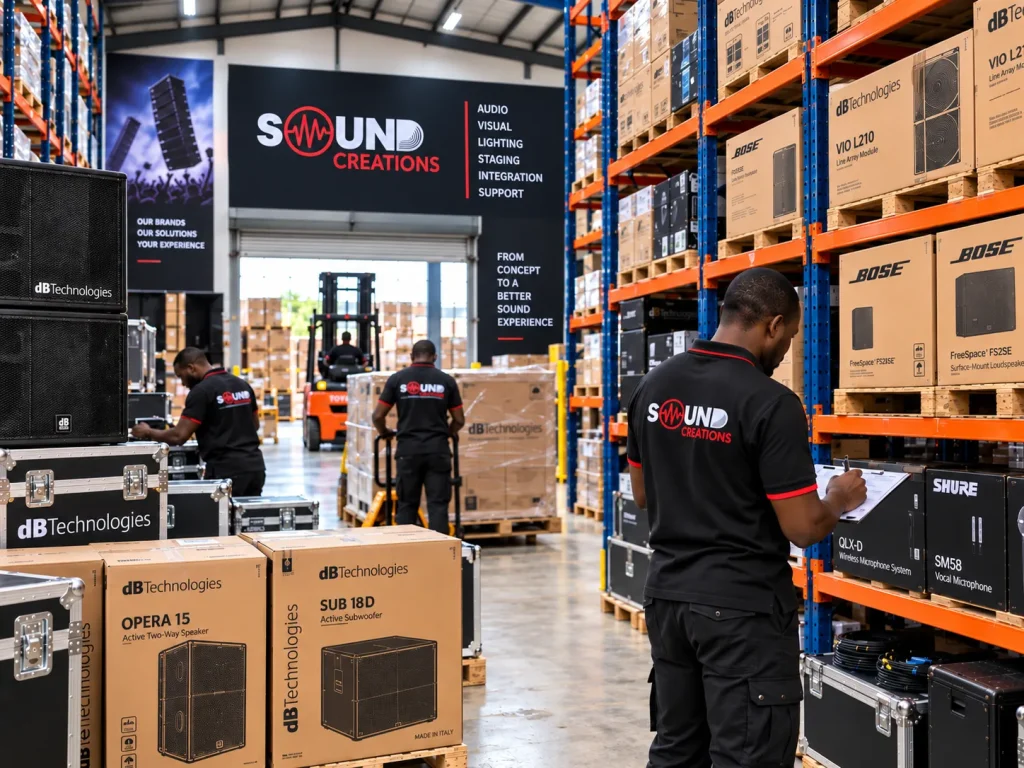
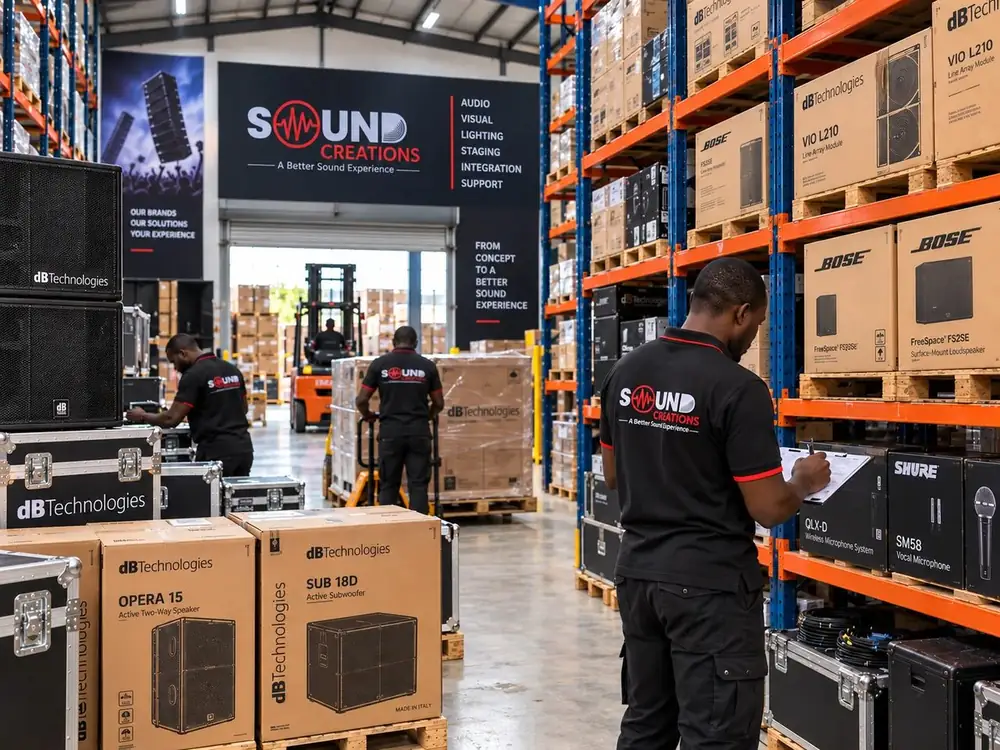
Homepage: ship right-sized WebP hero, service and CTA images
Sources were 2-3x larger in pixel dimensions than their display slots,
so the first uncached load pulled ~1 MB of imagery before the optimizer
had anything cached.

- Add WebP encodes sized to their actual slots: hero-poster (1280w),
  cta-building (1400w), and the four What We Do service cards (1000w for
  a 600x450 slot)
- Point the homepage defaults and the LCP preload hint at the WebP files
- Homepage image payload drops ~1040 KB -> ~494 KB (52% smaller)
- Bump theme version to 0.8.27 for cache busting

JPEG originals are kept in the repo as masters.

diff --git a/soundcreations/style.css b/soundcreations/style.css
@@ -4,7 +4,7 @@ Theme URI: https://soundcreationsltd.com/
 Author: Sound Creations Ltd
 Author URI: https://soundcreationsltd.com/
 Description: Premium B2B audio, acoustics, distribution and integration theme for Sound Creations Ltd. Dark-first, editorial and engineering-led. Built custom - no Elementor, no WooCommerce. Starter scaffold (v0.1.0).
-Version: 0.8.26
+Version: 0.8.27
 Requires at least: 6.4
 Tested up to: 6.6
 Requires PHP: 8.0

diff --git a/soundcreations/front-page.php b/soundcreations/front-page.php
@@ -14,7 +14,7 @@ if ( defined( 'ABSPATH' ) === false ) {
 get_header();
 
 $sc_hero_video  = sc_setting( 'hero_video' );
-$sc_hero_poster = sc_setting( 'home_hero_poster', SC_THEME_URI . '/assets/img/hero-poster.jpg' );
+$sc_hero_poster = sc_setting( 'home_hero_poster', SC_THEME_URI . '/assets/img/hero-poster.webp' );
 ?>
 
 <section class="sc-hero sc-hero--video" style="background-image:url('<?php echo esc_url( $sc_hero_poster ); ?>');">
@@ -57,10 +57,10 @@ $sc_hero_poster = sc_setting( 'home_hero_poster', SC_THEME_URI . '/assets/img/he
 				wp_reset_postdata();
 			}
 			$sc_services = array(
-				array( 'service-consultancy.jpg', 'consultancy', 'Consultancy', 'Design and consultation across audio, acoustics, lighting and visuals - at every phase of your project.', '/request-a-consultation/', 'home_svc1_img', array( 'consult' ) ),
-				array( 'service-distribution.jpg', 'distribution', 'Distribution & Dealership', 'Certified exclusive dealers for leading global brands, with reliable regional distribution and logistics.', '/brands/', 'home_svc2_img', array( 'distribut', 'dealer' ) ),
-				array( 'service-integration.jpg', 'integration', 'Integration', 'Site mapping, system design, installation, commissioning, training and support for every audio and acoustic need.', '/solutions/', 'home_svc3_img', array( 'integ' ) ),
-				array( 'service-aftersale.jpg', 'aftersale', 'After-Sale Services', 'Warranty management, genuine spare parts, servicing and technical support that keep your systems performing.', '/contact/', 'home_svc4_img', array( 'after', 'sale' ) ),
+				array( 'service-consultancy.webp', 'consultancy', 'Consultancy', 'Design and consultation across audio, acoustics, lighting and visuals - at every phase of your project.', '/request-a-consultation/', 'home_svc1_img', array( 'consult' ) ),
+				array( 'service-distribution.webp', 'distribution', 'Distribution & Dealership', 'Certified exclusive dealers for leading global brands, with reliable regional distribution and logistics.', '/brands/', 'home_svc2_img', array( 'distribut', 'dealer' ) ),
+				array( 'service-integration.webp', 'integration', 'Integration', 'Site mapping, system design, installation, commissioning, training and support for every audio and acoustic need.', '/solutions/', 'home_svc3_img', array( 'integ' ) ),
+				array( 'service-aftersale.webp', 'aftersale', 'After-Sale Services', 'Warranty management, genuine spare parts, servicing and technical support that keep your systems performing.', '/contact/', 'home_svc4_img', array( 'after', 'sale' ) ),
 			);
 			foreach ( $sc_services as $sc_s ) :
 				$sc_img  = sc_setting( $sc_s[5], SC_THEME_URI . '/assets/img/home/' . $sc_s[0] );
@@ -264,7 +264,7 @@ $sc_hero_poster = sc_setting( 'home_hero_poster', SC_THEME_URI . '/assets/img/he
 
 <section class="sc-section">
 	<div class="sc-container">
-		<div class="sc-cta-band sc-cta-band--photo" style="background-image:url('<?php echo esc_url( sc_setting( 'home_cta_image', SC_THEME_URI . '/assets/img/cta-building.jpg' ) ); ?>');">
+		<div class="sc-cta-band sc-cta-band--photo" style="background-image:url('<?php echo esc_url( sc_setting( 'home_cta_image', SC_THEME_URI . '/assets/img/cta-building.webp' ) ); ?>');">
 			<div class="sc-cta-band__inner">
 				<h2><?php echo esc_html( sc_setting( 'home_cta_title', 'Have a project in mind?' ) ); ?></h2>
 				<p class="sc-lead" style="margin:0 0 .9rem;"><?php echo sc_rich_e( sc_setting( 'home_cta_text', 'Tell us about your space and application. Our technical team will help you specify the right system.' ) ); ?></p>

diff --git a/soundcreations/inc/enqueue.php b/soundcreations/inc/enqueue.php
@@ -39,7 +39,7 @@ add_action(
 		$u = SC_THEME_URI;
 		echo '<link rel="preload" as="font" type="font/woff2" crossorigin href="' . esc_url( $u . '/assets/fonts/inter-600.woff2' ) . '">' . "\n";
 		if ( is_front_page() ) {
-			echo '<link rel="preload" as="image" fetchpriority="high" href="' . esc_url( $u . '/assets/img/hero-poster.jpg' ) . '">' . "\n";
+			echo '<link rel="preload" as="image" fetchpriority="high" href="' . esc_url( $u . '/assets/img/hero-poster.webp' ) . '">' . "\n";
 		} elseif ( is_page( 'about' ) ) {
 			echo '<link rel="preload" as="image" fetchpriority="high" href="' . esc_url( $u . '/assets/img/about-photo.jpg' ) . '">' . "\n";
 		}
